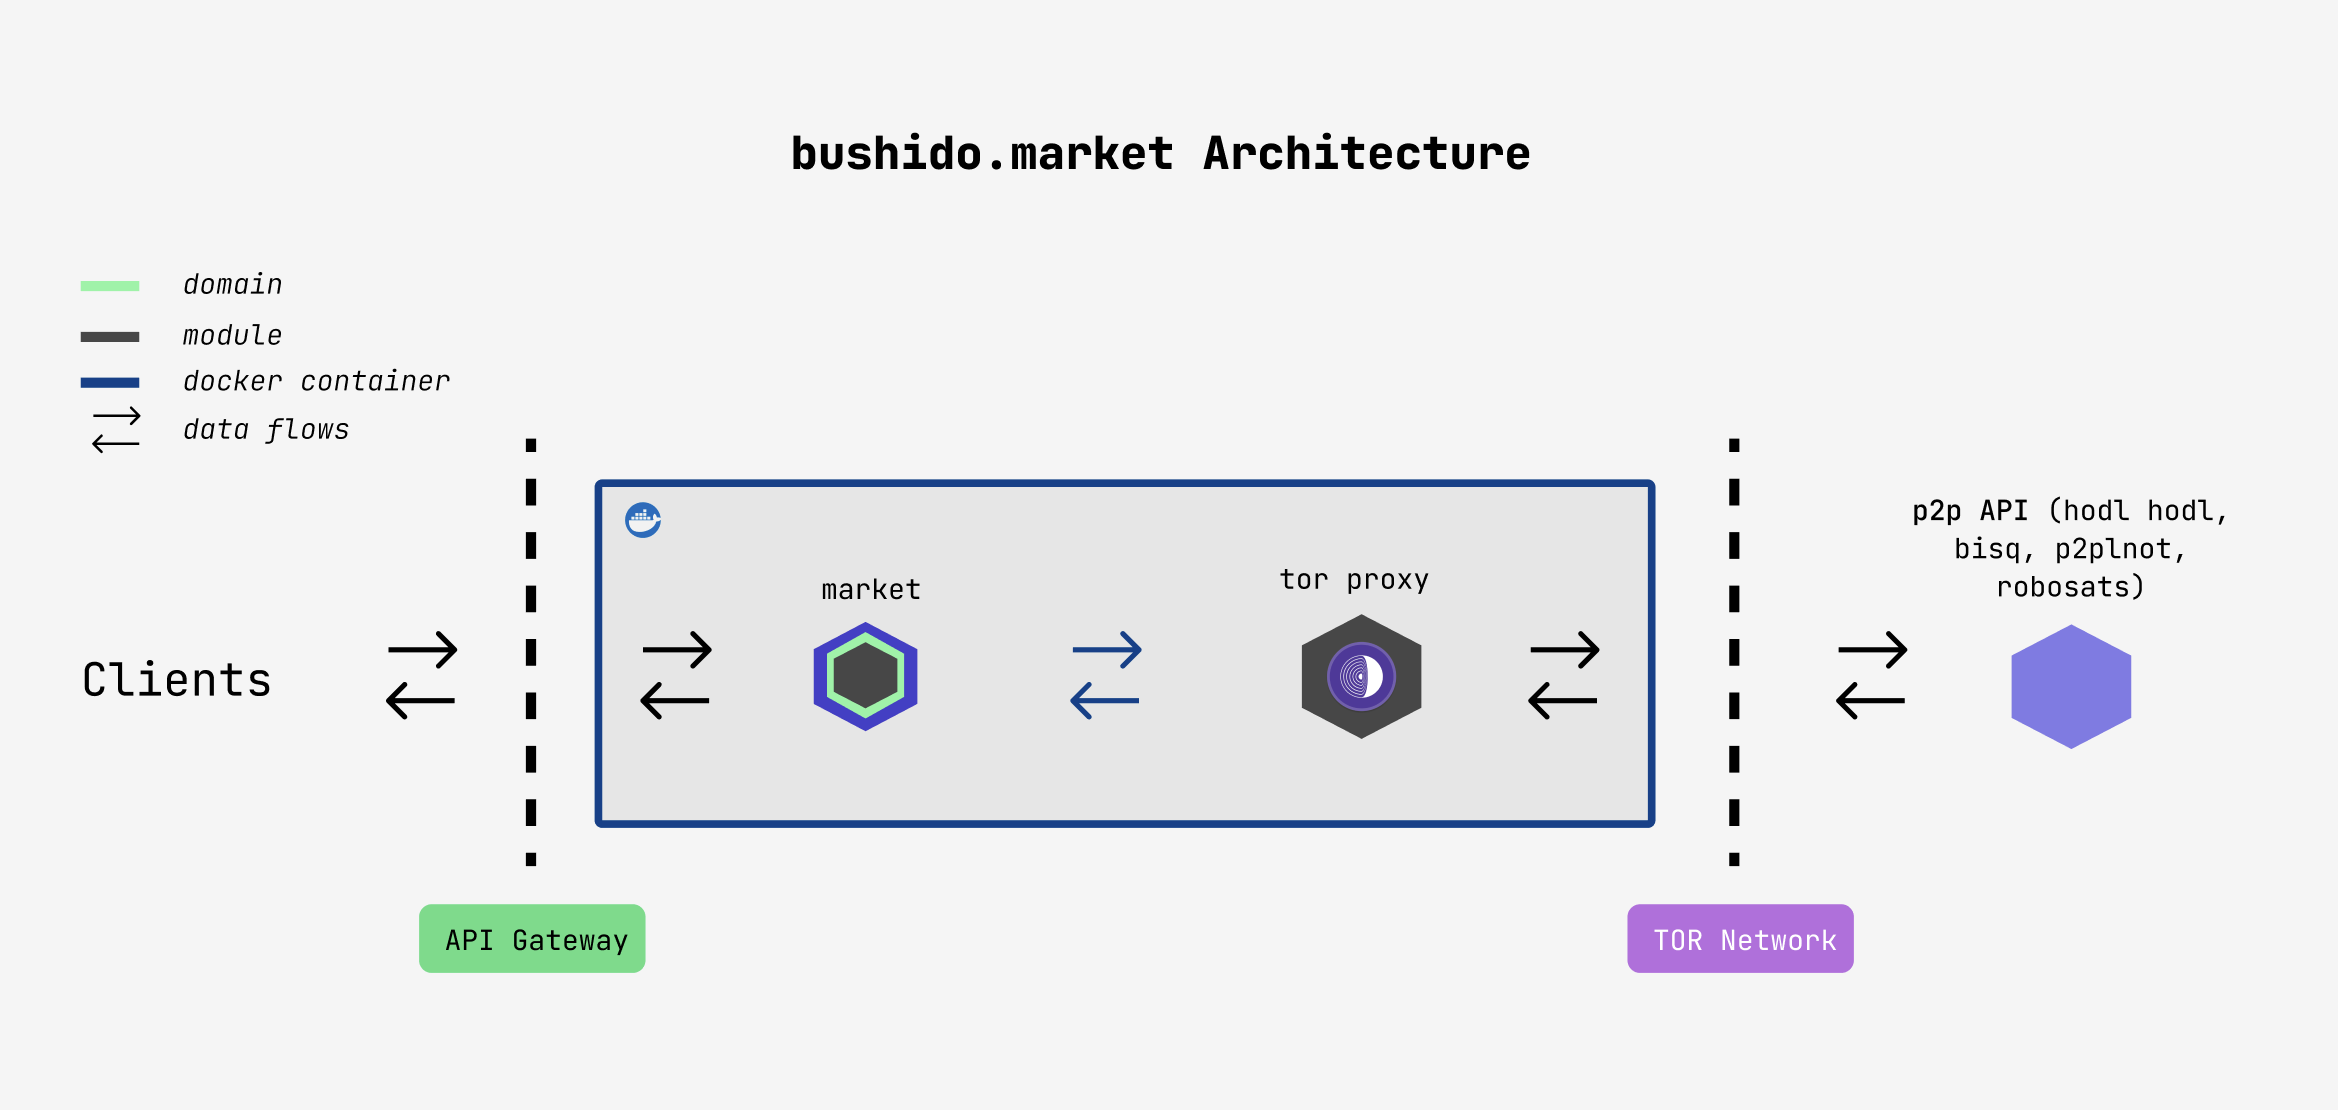
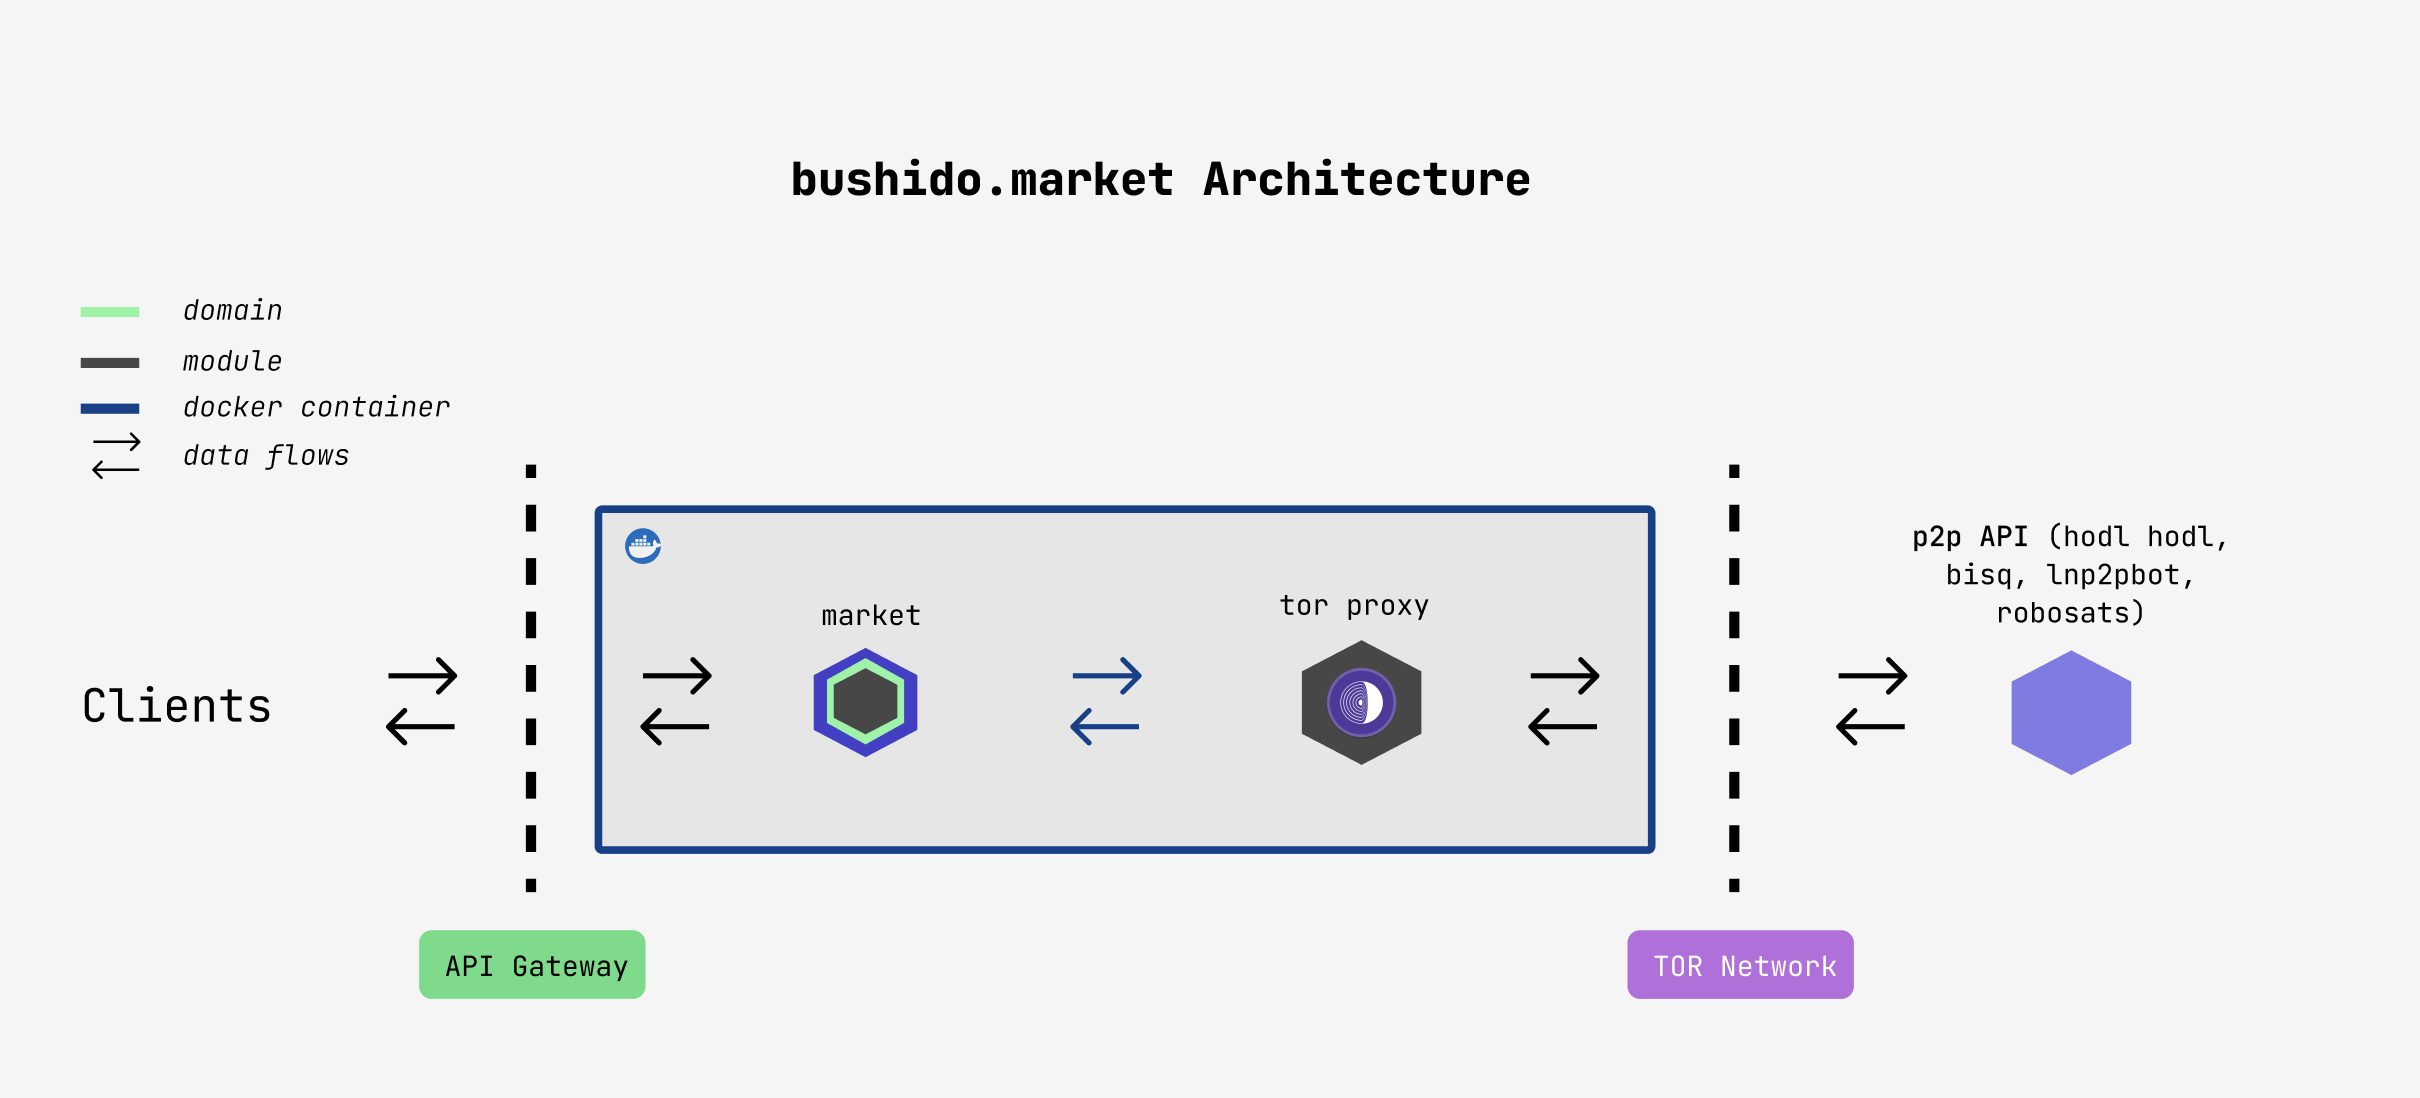
Spelling errors in the image

diff --git a/README.md b/README.md
@@ -8,7 +8,7 @@ Instead of making requests from the CLI, we have an API server to make queries a
 
 ![Market Architecture](./docs/assets/arch.png)
 
-Clients interacts with the system through the API-Gateway. The market module executes the corresponding use-case and proxies the request through the proxy server. Usually, all the requests that travel through the tor network are going to different P2P exchanges (API) as Hodl Hold, Bisq, P2PLNBot and RoboSats to get the market offers.
+Clients interacts with the system through the API-Gateway. The market module executes the corresponding use-case and proxies the request through the proxy server. Usually, all the requests that travel through the tor network are going to different P2P exchanges (API) as Hodl Hold, Bisq, LNp2pbot and RoboSats to get the market offers.
 That two modules, work in top of a docker containers which gives the flexibility to be more portable and be able to install in a place that we want.
 
 ## Containers Network
